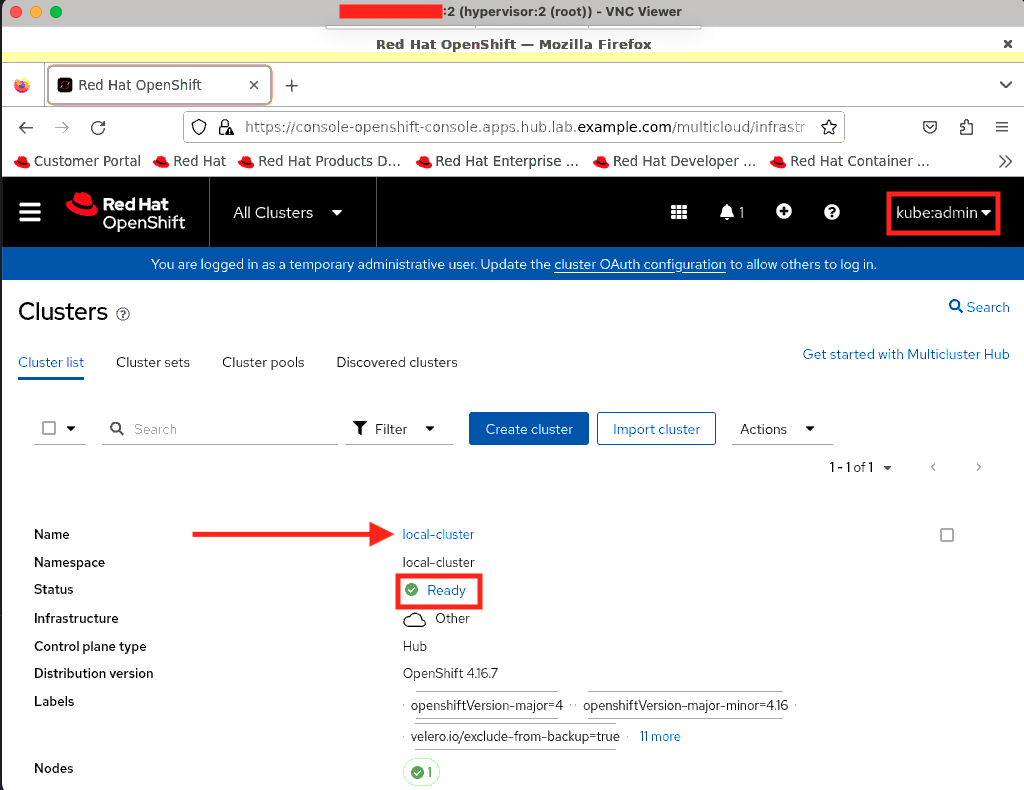
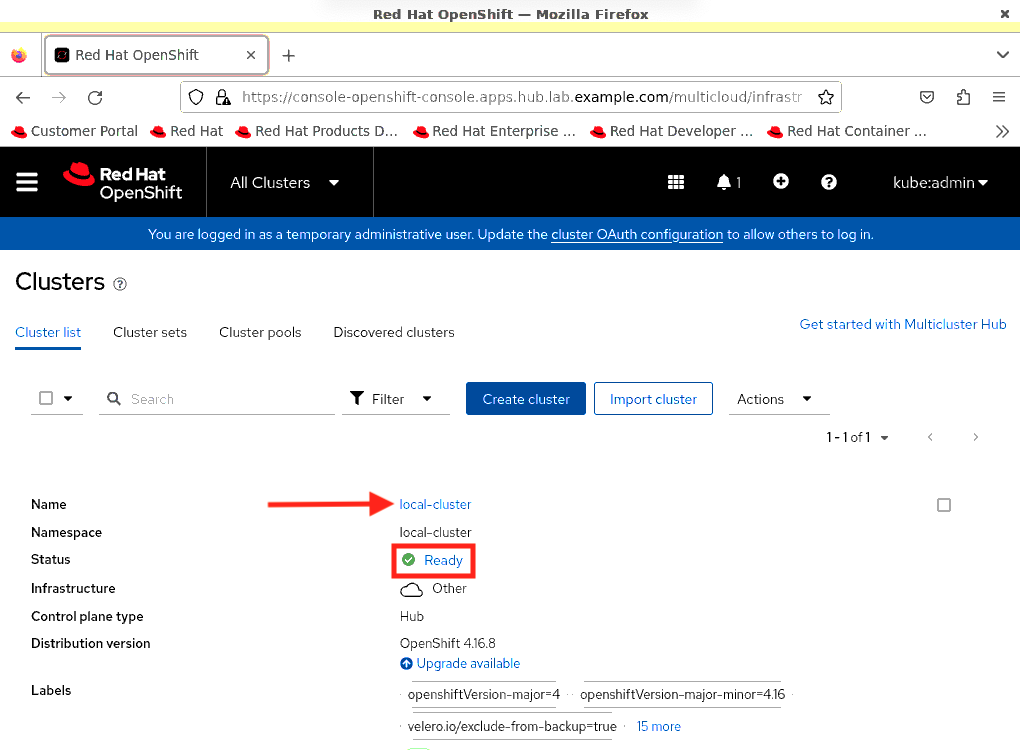
Deploy preview for PR 5 🛫

diff --git a/pr-preview/pr-5/mcap-deployment/1/chapter1/section2.html b/pr-preview/pr-5/mcap-deployment/1/chapter1/section2.html
@@ -252,7 +252,7 @@ Few of the tasks are automated with the help of ansible playbooks.</p>
 <p>Clone the repo which holds all automation scripts and ansible playbooks.</p>
 <div class="listingblock execute">
 <div class="content">
-<pre class="highlightjs highlight"><code class="language-bash hljs" data-lang="bash">git clone &lt;repo_link&gt;.git</code></pre>
+<pre class="highlightjs highlight"><code class="language-bash hljs" data-lang="bash">git clone https://github.com/RedHatQuickCourses/mcap-deployment-files.git</code></pre>
 </div>
 </div>
 <div class="admonitionblock note">
@@ -262,7 +262,7 @@ Few of the tasks are automated with the help of ansible playbooks.</p>
 <i class="fa icon-note" title="Note"></i>
 </td>
 <td class="content">
-<mark>Fix the Repo</mark>
+Clone the repo in case it is not already cloned while provisioning.
 </td>
 </tr>
 </table>
@@ -272,7 +272,7 @@ Few of the tasks are automated with the help of ansible playbooks.</p>
 <p>Install the required ansible collections needed for running the playbooks.</p>
 <div class="listingblock execute">
 <div class="content">
-<pre class="highlightjs highlight"><code class="language-bash hljs" data-lang="bash">cd &lt;repo&gt;/src/ansible/</code></pre>
+<pre class="highlightjs highlight"><code class="language-bash hljs" data-lang="bash">cd mcap-deployment-files/src/ansible/</code></pre>
 </div>
 </div>
 <div class="listingblock execute">

diff --git a/pr-preview/pr-5/mcap-deployment/1/chapter3/section2.html b/pr-preview/pr-5/mcap-deployment/1/chapter3/section2.html
@@ -242,6 +242,16 @@ These <em>Infrastructure</em> clusters will be Single Node OpenShift (SNO) clust
 </li>
 <li>
 <p>Set the <em>visible</em> label as <em>true</em> and <em>channel</em> label as <em>stable</em> for <code>4.16.8</code> image.</p>
+<div class="listingblock execute">
+<div class="content">
+<pre class="highlightjs highlight"><code class="language-bash hljs" data-lang="bash">oc patch clusterimagesets.hive.openshift.io img4.16.8-multi-appsub --type='json' -p='[{"op":"replace","path": "/metadata/labels/visible","value":"true"}]'</code></pre>
+</div>
+</div>
+<div class="listingblock execute">
+<div class="content">
+<pre class="highlightjs highlight"><code class="language-bash hljs" data-lang="bash">oc patch clusterimagesets.hive.openshift.io img4.16.8-multi-appsub --type='json' -p='[{"op":"replace","path": "/metadata/labels/channel","value":"stable"}]'</code></pre>
+</div>
+</div>
 <div class="listingblock">
 <div class="title">Sample output:</div>
 <div class="content">

diff --git a/pr-preview/pr-5/mcap-deployment/1/chapter2/section2.html b/pr-preview/pr-5/mcap-deployment/1/chapter2/section2.html
@@ -258,12 +258,20 @@ This <em>Hub</em> cluster will be Single Node OpenShift (SNO) cluster.</p>
 <div class="paragraph">
 <p>Check box the <code>Install single node OpenShift (SNO)</code></p>
 </div>
+<div class="imageblock">
+<div class="content">
+<img src="_images/console_redhat_cluster_details.png" alt="console redhat cluster details">
+</div>
+</div>
+<div class="paragraph">
+<p>Select DHCP.</p>
+</div>
 <div class="paragraph">
 <p>Click <b class="button">Next</b>.</p>
 </div>
 <div class="imageblock">
 <div class="content">
-<a class="image" href="images/console_redhat_cluster_details.png" target="read-later"><img src="_images/console_redhat_cluster_details.png" alt="console redhat cluster details"></a>
+<img src="_images/console_redhat_cluster_details_1.png" alt="console redhat cluster details 1">
 </div>
 </div>
 </li>

diff --git a/pr-preview/pr-5/mcap-deployment/1/chapter2/section4.html b/pr-preview/pr-5/mcap-deployment/1/chapter2/section4.html
@@ -240,7 +240,7 @@ hub.lab.example.com   Ready    control-plane,master,worker   30m   v1.29.7+6abe8
 [root@hypervisor ~]# oc get clusterversion
 
 NAME      VERSION   AVAILABLE   PROGRESSING   SINCE   STATUS
-version   4.16.7    True        False         16m     Cluster version is 4.16.7</pre>
+version   4.16.8    True        False         86m     Cluster version is 4.16.8</pre>
 </div>
 </div>
 </li>
